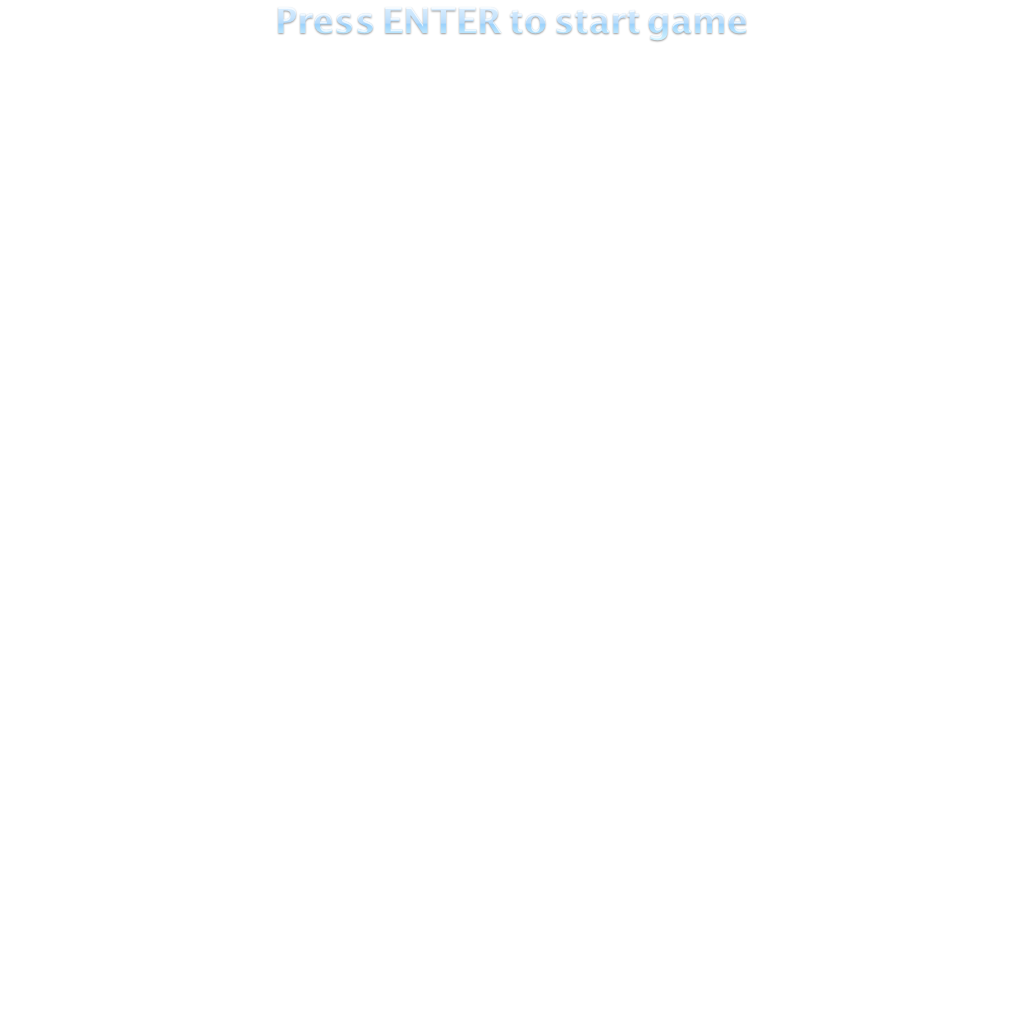
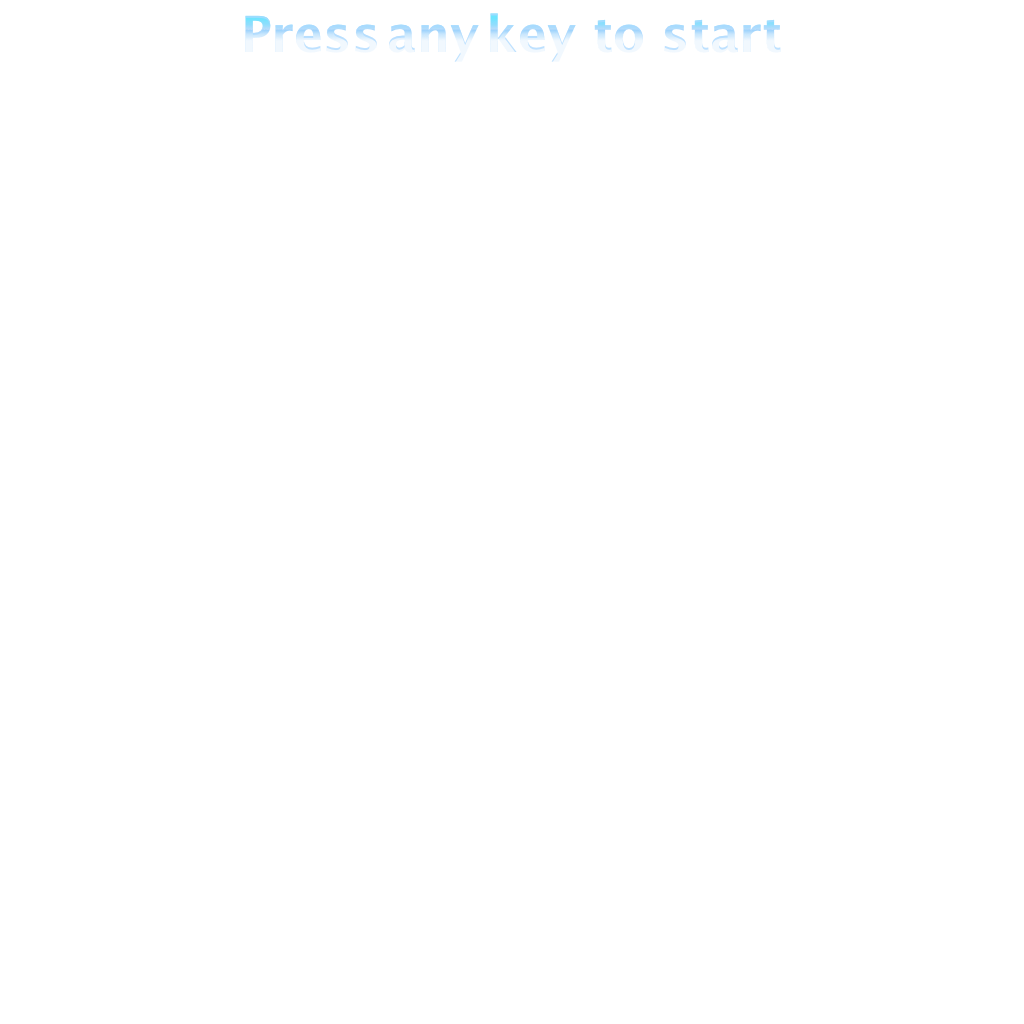
New info at start screen

Changed region(s): [[0.2188, 0.0, 0.75, 0.0625]]

diff --git a/src/game/Tail.java b/src/game/Tail.java
@@ -20,7 +20,7 @@ public class Tail {
 	public Tail(String filename) {
 		tail = new LinkedList<SimpleMatrix>();
 		sprite = new TailSprite(filename);
-		length = 100;
+		length = 200;
 	}
 	
 	/**
@@ -58,8 +58,9 @@ public class Tail {
 		
 		for (int i = 60; i < tail.size(); i += 10) {
 			checker = new SimpleMatrix(1, 2, true, tail.get(i).get(0), tail.get(i).get(1));
-			if (checker.minus(otherPos).normF() < radius + 40) { // Approximate checking
+			if (checker.minus(otherPos).normF() < radius + 160) { // Approximate checking
 				// Now, precise checking
+				System.out.println("Proximity");
 				for(int j = 10; j < tail.size() - 3; j += 3) {
 					for(int z = 0; z < shape.size(); z++) {
 						if(Geometry.linesIntersect(tail.get(j - 3), tail.get(j + 3),

diff --git a/src/game/GameController.java b/src/game/GameController.java
@@ -53,7 +53,7 @@ public class GameController {
 
 		// Load sprites
 		logo = new Sprite("res/logo.png", 1024, 234);
-		info_enter = new Sprite("res/info_enter.png", 1024, 40);
+		info_enter = new Sprite("res/info_enter.png", 1024, 60);
 		key_a = new Sprite("res/key_a.png", 64, 40);
 		key_d = new Sprite("res/key_d.png", 64, 40);
 		key_left = new Sprite("res/key_left.png", 64, 40);

diff --git a/src/game/Loop.java b/src/game/Loop.java
@@ -36,8 +36,8 @@ public class Loop {
 		// LWJGL Setup
 		try {
 			Display.setFullscreen(true);
-			Display.setDisplayMode(new DisplayMode(1100, 700));
-			Display.setLocation(0, 0);
+			//Display.setDisplayMode(new DisplayMode(1100, 700));
+			//Display.setLocation(0, 0);
 			Display.setTitle("TRON-SNAKE");
 			Display.setVSyncEnabled(true);
 			Display.create();
